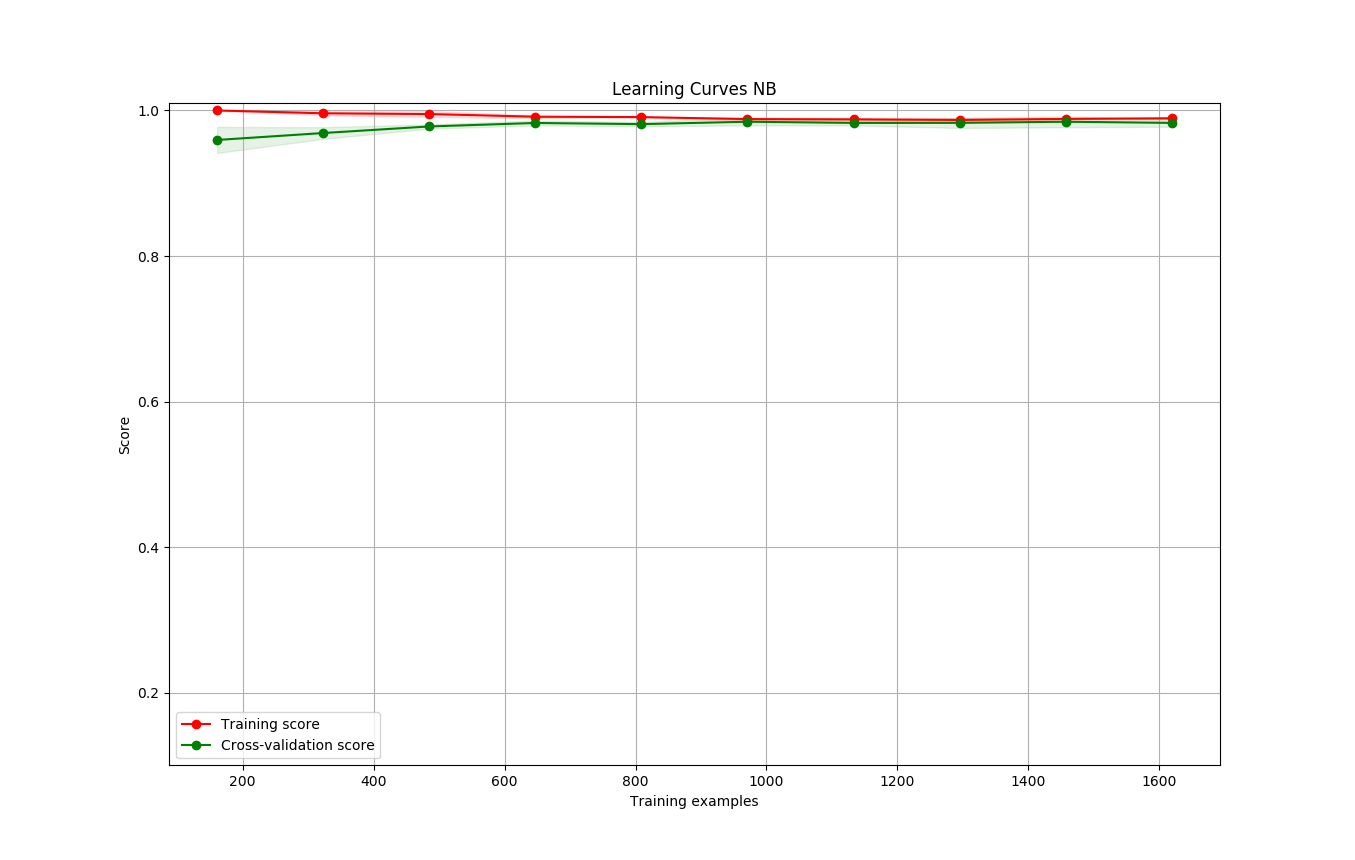
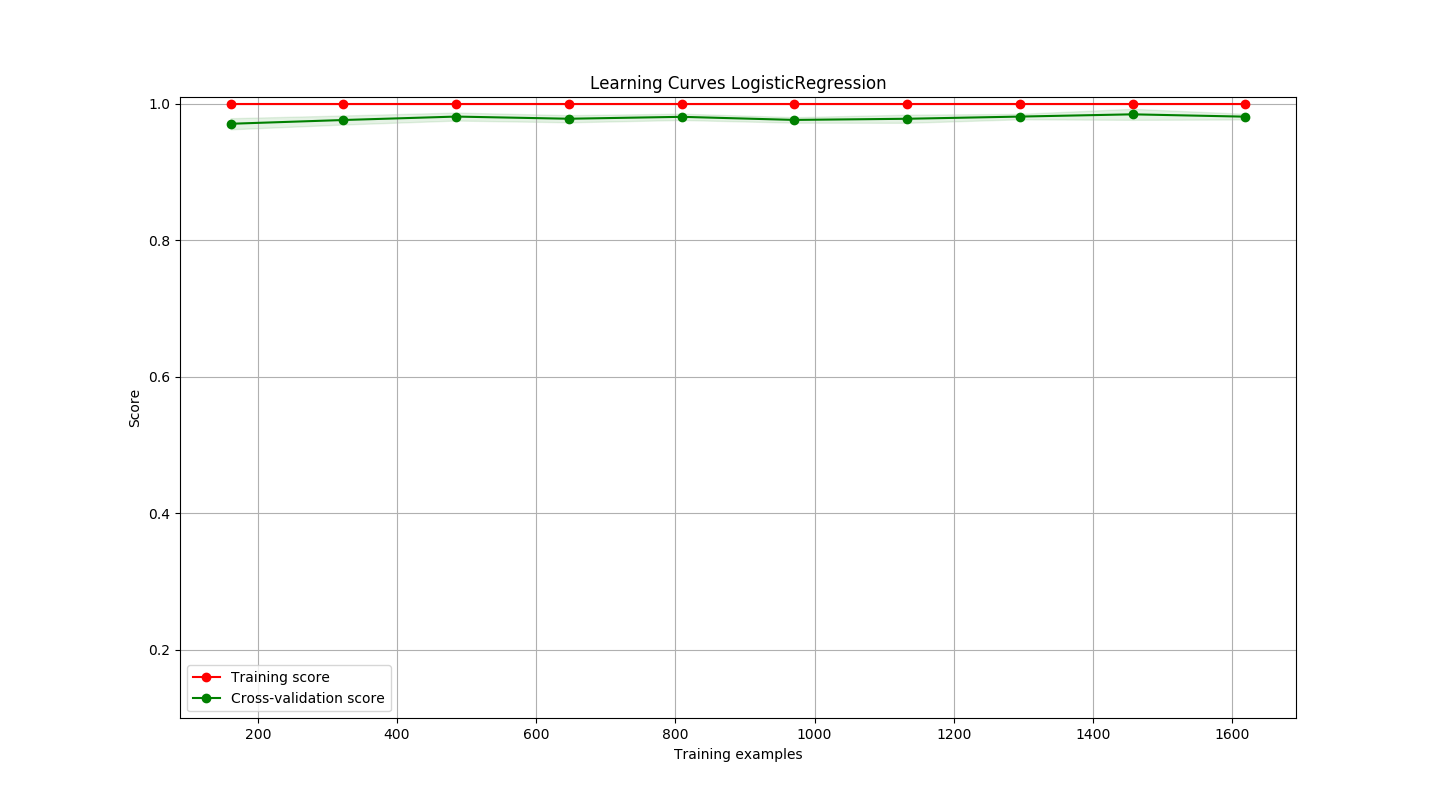
correct learning curves

diff --git a/set2new/main.py b/set2new/main.py
@@ -1,13 +1,22 @@
+# Draw learning curves (slides 64, 67) with appropriate measures (e.g., accuracy, F1) and precision-recall curves
+# (slide 23). Include experimental results of appropriate baselines (e.g., majority classifiers).
+# Make sure that you use separate training and test data. Tune the feature set and hyperparameters
+# (e.g., regularization weight l) on a held-out part of the training data or using a
+# cross-validation (slide 25) on the training data.
+
 from datahandling import open_files_inpath
 import os
 import numpy
 from vectorizer import feature_vector
 from sklearn.linear_model import LogisticRegression
 from sklearn.naive_bayes import MultinomialNB
-from sklearn import metrics
 import time
-from graphics import plot_learning_curve
+from graphics import plot_learning_curve,plotter
 from sklearn.model_selection import ShuffleSplit
+from sklearn.multiclass import OneVsRestClassifier
+from sklearn.metrics import precision_recall_curve
+from sklearn.metrics import average_precision_score
+from sklearn import metrics
 
 
 start = time.time()
@@ -41,32 +50,45 @@ test_y=numpy.concatenate((test_ham_y,test_spam_y), axis=0)
 
 logisticregr_model = LogisticRegression()
 logisticregr_model.fit(train_x, train_y ) #training of logistic regression
-print logisticregr_model.score(train_x,train_y), train_y.mean()
 
 #prediction on test data using logistic regression
 
-test_predicted_lg = logisticregr_model.predict(test_x)
-
-print(metrics.classification_report(test_y, test_predicted_lg, digits=3))
+#test_predicted_lg = logisticregr_model.predict(test_x)
 
 #Naive Bayes
 mgausbay_model= MultinomialNB()
 mgausbay_model.fit(train_x,train_y)
 
-test_predicted_gb= mgausbay_model.predict(test_x)
-
-print(metrics.classification_report(test_y,test_predicted_gb,digits=3))
-print "it lasted : %s seconds"%(time.time() - start)
+#test_predicted_gb= mgausbay_model.predict(test_x)
 
 #learning curves
 
 # Algorithm Dictionary
-estimators = {'LR':LogisticRegression(), 'NB':MultinomialNB()}
+estimators = {'LogisticRegression':logisticregr_model, 'NaiveBayes':mgausbay_model}
 
 for (name,estimator) in estimators.items():
     title = "Learning Curves " + name
     # Random permutation cross-validator
-    cv = ShuffleSplit(n_splits=3, test_size=0.2, random_state=0)
-    plt = plot_learning_curve(estimator, title, train_x, train_y, (0.1, 1.01), cv=cv, n_jobs=-1)
-
+    cv = ShuffleSplit(n_splits=10, test_size=0.2, random_state=0)
+    plt = plot_learning_curve(estimator, title, test_x, estimator.predict(test_x), (0.1, 1.01), cv=cv, n_jobs=-1)
     plt.show()
+
+# for (name, estimator) in [("Logistic Regression",LogisticRegression())]:
+#
+#     # Fit model
+#     classifier = OneVsRestClassifier(estimator)
+#     y_score = classifier.fit(train_x, train_y).decision_function(test_x)
+#     #print y_score
+#     # # Compute Precision-Recall and plot curve
+#     precision = dict()
+#     recall = dict()
+#     average_precision = dict()
+#     precision, recall, _ = precision_recall_curve(test_y,y_score)
+#     average_precision = average_precision_score(test_y, y_score)
+#     # Compute micro-average ROC curve and ROC area
+#     precision["micro"], recall["micro"], _ = precision_recall_curve(test_y,y_score.ravel())
+#     average_precision["micro"] = average_precision_score(test_y, y_score,average="micro")
+#     draw = plotter(recall,precision,average_precision,name)
+#     draw.show()
+
+print "it lasted : %s seconds"%(time.time() - start)

diff --git a/set2new/graphics.py b/set2new/graphics.py
@@ -34,3 +34,34 @@ def plot_learning_curve(estimator, title, X, y, ylim=None, cv=None,
 
     plt.legend(loc="best")
     return plt
+
+def plotter(recall,precision,average_precision,name):
+    plt.clf()
+    plt.plot(recall["micro"], precision["micro"], color='navy',
+             label='micro-average Precision-recall curve (area = {0:0.2f})'
+                   ''.format(average_precision["micro"]))
+    plt.xlabel('Recall')
+    plt.ylabel('Precision')
+    plt.ylim([0.0, 1.05])
+    plt.xlim([0.0, 1.0])
+    plt.title('Precision-Recall {0}: AUC={1:0.2f}'.format(name, average_precision['micro']))
+    plt.legend(loc="lower left")
+    plt.show()
+
+    # Plot Precision-Recall curve for each class
+    plt.clf()
+    plt.plot(recall["micro"], precision["micro"], color='navy',
+             label='micro-average Precision-recall curve (area = {0:0.2f})'
+                   ''.format(average_precision["micro"]))
+    for i, color in zip(range(3), ['red', 'green', 'blue']):
+        plt.plot(recall[i], precision[i], color=color,
+                 label='Precision-recall curve of class {0} (area = {1:0.2f})'
+                       ''.format(i, average_precision[i]))
+
+    plt.xlim([0.0, 1.0])
+    plt.ylim([0.0, 1.05])
+    plt.xlabel('Recall')
+    plt.ylabel('Precision')
+    plt.title('Extension of Precision-Recall curve to multi-class ({0})'.format(name))
+    plt.legend(loc="lower right")
+    return plt
